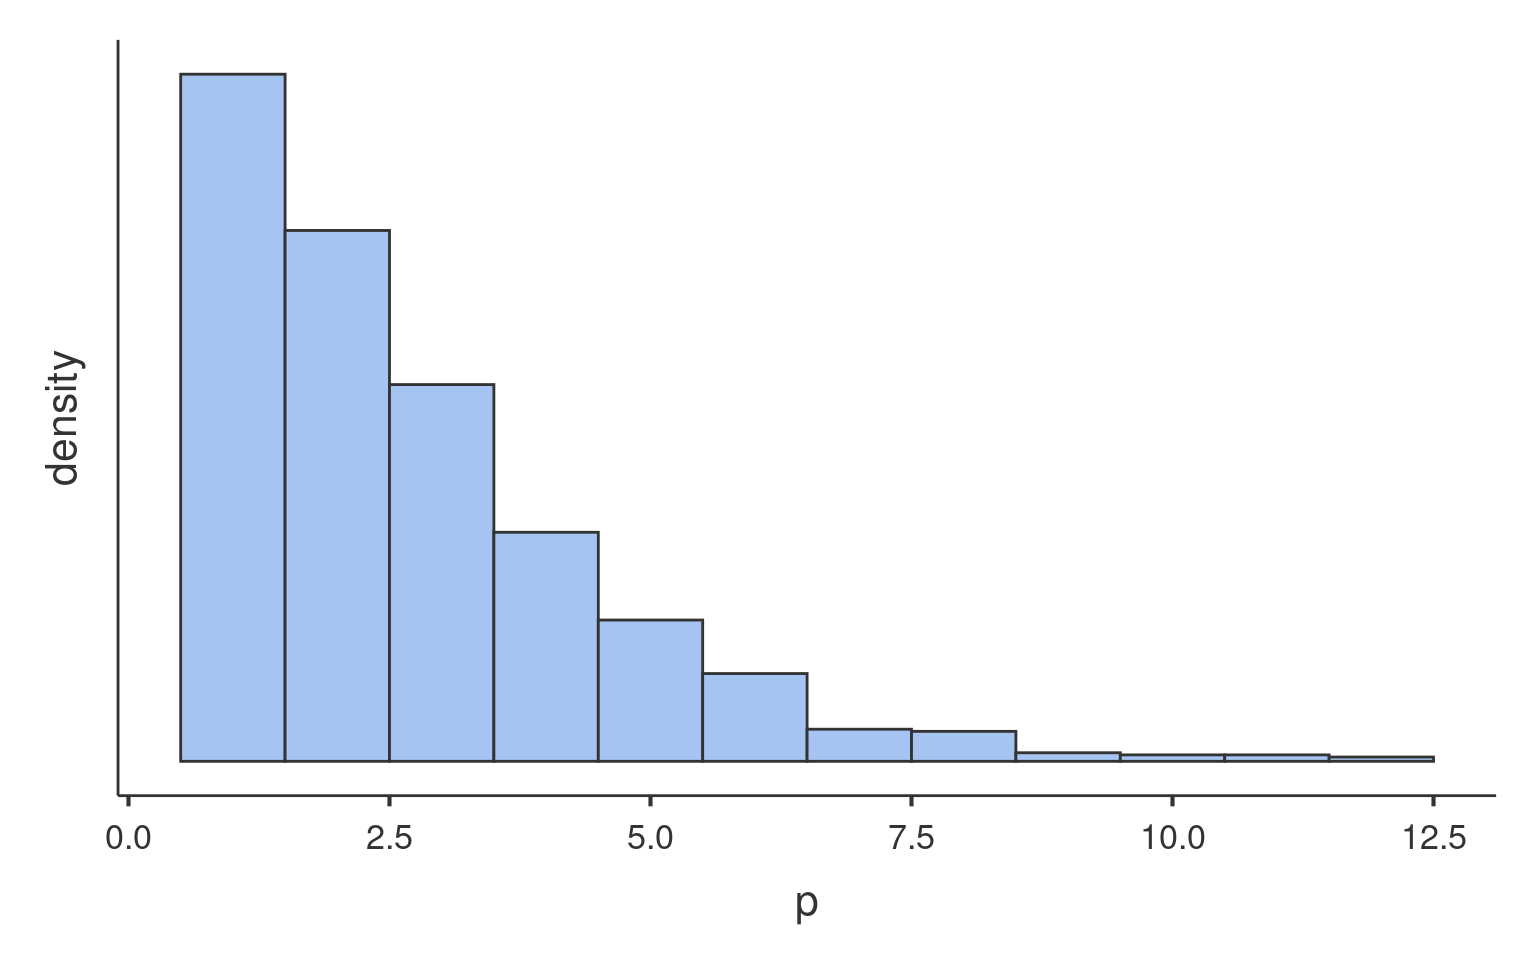
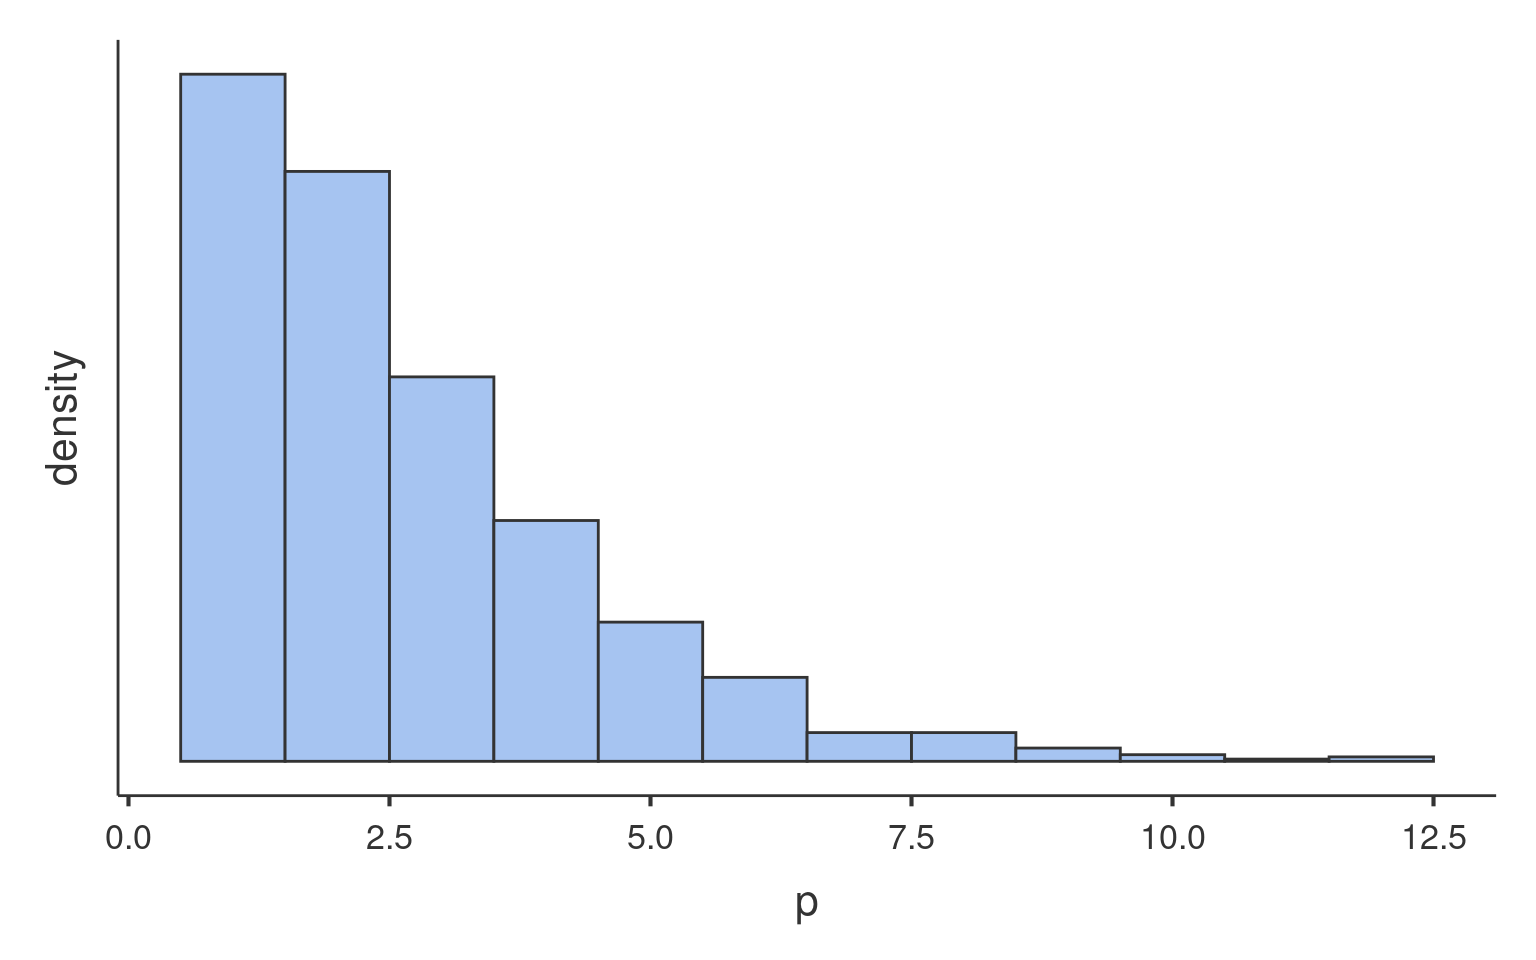
updates

diff --git a/docs/rpackage/reference/gamlj_gmixed.html b/docs/rpackage/reference/gamlj_gmixed.html
@@ -440,7 +440,7 @@ normality of residuals</p></dd>
 <span class="r-out co"><span class="r-pr">#&gt;</span>  ───────────────────────────────────────────────────────────────────── </span>
 <span class="r-out co"><span class="r-pr">#&gt;</span>    Type           R²           df           LRT X²        p            </span>
 <span class="r-out co"><span class="r-pr">#&gt;</span>  ───────────────────────────────────────────────────────────────────── </span>
-<span class="r-out co"><span class="r-pr">#&gt;</span>    Conditional    0.0436968    2.0000000    39.7507885    &lt; .0000001   </span>
+<span class="r-out co"><span class="r-pr">#&gt;</span>    Conditional    0.0436942    2.0000000    39.7507886    &lt; .0000001   </span>
 <span class="r-out co"><span class="r-pr">#&gt;</span>    Marginal       0.0185754    1.0000000    26.8376082     0.0000002   </span>
 <span class="r-out co"><span class="r-pr">#&gt;</span>  ───────────────────────────────────────────────────────────────────── </span>
 <span class="r-out co"><span class="r-pr">#&gt;</span> </span>
@@ -450,11 +450,11 @@ normality of residuals</p></dd>
 <span class="r-out co"><span class="r-pr">#&gt;</span>    Info              Model Value      Comment                    </span>
 <span class="r-out co"><span class="r-pr">#&gt;</span>  ─────────────────────────────────────────────────────────────── </span>
 <span class="r-out co"><span class="r-pr">#&gt;</span>    LogLikelihood     -1210.6506201                               </span>
-<span class="r-out co"><span class="r-pr">#&gt;</span>    AIC                2427.3012403    Less is better             </span>
+<span class="r-out co"><span class="r-pr">#&gt;</span>    AIC                2427.3012402    Less is better             </span>
 <span class="r-out co"><span class="r-pr">#&gt;</span>    BIC                2443.7878661    Less is better             </span>
-<span class="r-out co"><span class="r-pr">#&gt;</span>    Deviance           2421.3012403    Less is better             </span>
+<span class="r-out co"><span class="r-pr">#&gt;</span>    Deviance           2421.3012402    Less is better             </span>
 <span class="r-out co"><span class="r-pr">#&gt;</span>    Residual DF        1797.0000000                               </span>
-<span class="r-out co"><span class="r-pr">#&gt;</span>    Chi-squared/DF        0.9822442    Overdispersion indicator   </span>
+<span class="r-out co"><span class="r-pr">#&gt;</span>    Chi-squared/DF        0.9822437    Overdispersion indicator   </span>
 <span class="r-out co"><span class="r-pr">#&gt;</span>  ─────────────────────────────────────────────────────────────── </span>
 <span class="r-out co"><span class="r-pr">#&gt;</span> </span>
 <span class="r-out co"><span class="r-pr">#&gt;</span> </span>
@@ -462,7 +462,7 @@ normality of residuals</p></dd>
 <span class="r-out co"><span class="r-pr">#&gt;</span>  ────────────────────────────────────────── </span>
 <span class="r-out co"><span class="r-pr">#&gt;</span>         X²          df          p           </span>
 <span class="r-out co"><span class="r-pr">#&gt;</span>  ────────────────────────────────────────── </span>
-<span class="r-out co"><span class="r-pr">#&gt;</span>    x    26.24380    1.000000    0.0000003   </span>
+<span class="r-out co"><span class="r-pr">#&gt;</span>    x    26.24375    1.000000    0.0000003   </span>
 <span class="r-out co"><span class="r-pr">#&gt;</span>  ────────────────────────────────────────── </span>
 <span class="r-out co"><span class="r-pr">#&gt;</span> </span>
 <span class="r-out co"><span class="r-pr">#&gt;</span> </span>
@@ -470,8 +470,8 @@ normality of residuals</p></dd>
 <span class="r-out co"><span class="r-pr">#&gt;</span>  ───────────────────────────────────────────────────────────────────────────────────────────────────────────────────────────── </span>
 <span class="r-out co"><span class="r-pr">#&gt;</span>    Names          Effect         Estimate       SE             Exp(B)       Lower        Upper        z            p           </span>
 <span class="r-out co"><span class="r-pr">#&gt;</span>  ───────────────────────────────────────────────────────────────────────────────────────────────────────────────────────────── </span>
-<span class="r-out co"><span class="r-pr">#&gt;</span>    (Intercept)    (Intercept)    -0.28754013    0.072358483    0.7501065    0.6509255    0.8643996    -3.973828    0.0000707   </span>
-<span class="r-out co"><span class="r-pr">#&gt;</span>    x              x               0.05075563    0.009907654    1.0520658    1.0318332    1.0726951     5.122871    0.0000003   </span>
+<span class="r-out co"><span class="r-pr">#&gt;</span>    (Intercept)    (Intercept)    -0.28753339    0.072356202    0.7501115    0.6509328    0.8644016    -3.973860    0.0000707   </span>
+<span class="r-out co"><span class="r-pr">#&gt;</span>    x              x               0.05075552    0.009907643    1.0520657    1.0318331    1.0726950     5.122865    0.0000003   </span>
 <span class="r-out co"><span class="r-pr">#&gt;</span>  ───────────────────────────────────────────────────────────────────────────────────────────────────────────────────────────── </span>
 <span class="r-out co"><span class="r-pr">#&gt;</span> </span>
 <span class="r-out co"><span class="r-pr">#&gt;</span> </span>
@@ -479,7 +479,7 @@ normality of residuals</p></dd>
 <span class="r-out co"><span class="r-pr">#&gt;</span>  ──────────────────────────────────────────────────────────────────── </span>
 <span class="r-out co"><span class="r-pr">#&gt;</span>    Groups      Name           Variance      SD           ICC          </span>
 <span class="r-out co"><span class="r-pr">#&gt;</span>  ──────────────────────────────────────────────────────────────────── </span>
-<span class="r-out co"><span class="r-pr">#&gt;</span>    cluster     (Intercept)    0.08642239    0.2939769    0.02559685   </span>
+<span class="r-out co"><span class="r-pr">#&gt;</span>    cluster     (Intercept)    0.08641348    0.2939617    0.02559427   </span>
 <span class="r-out co"><span class="r-pr">#&gt;</span>    Residual                   3.28986813    1.8137994                 </span>
 <span class="r-out co"><span class="r-pr">#&gt;</span>  ──────────────────────────────────────────────────────────────────── </span>
 <span class="r-out co"><span class="r-pr">#&gt;</span>    Note. Number of Obs: 1800 , Number of groups: cluster 30</span>

diff --git a/docs/glm.html b/docs/glm.html
@@ -505,8 +505,8 @@ the <span class="math inline">\(median+k P\)</span>, and the <span
 class="math inline">\(median-k\cdot P\)</span>, where <span
 class="math inline">\(P\)</span> is the offset of percentile one needs.
 Again, the <span class="math inline">\(P\)</span> is ruled by the white
-field below the option. Default is 25%. The default conditions the model
-to:</p>
+field below the option. The offset should be within 5 and 50, default is
+25%. The default conditions the model to:</p>
 <ul>
 <li><p><span class="math inline">\(50^{th}-25^{th}=25^{th}\)</span>
 percentile</p></li>
@@ -514,10 +514,14 @@ percentile</p></li>
 <li><p><span class="math inline">\(50^{th}+25^{th}=75^{th}\)</span>
 percentile</p></li>
 </ul></li>
+<li><p><span class="option">Min to Max</span>: The IV is conditioned to
+its <span class="math inline">\(min\)</span>, <span
+class="math inline">\(max\)</span> and a number of values in between,
+ruled by <code>Steps</code>. For <code>Steps=1</code> only <span
+class="math inline">\(min\)</span> and <span
+class="math inline">\(max\)</span> are used. For <code>Steps=2</code>,
+one value in the middle is also used, and so on.</p></li>
 </ul>
-<p>The offset should be within 5 and 50.</p>
-<p>Note that with either of these two options, one can estimate simple
-effects and plots for any value of the continuous IV.</p>
 <p><span class="option">Covariates labeling</span> decides which label
 should be associated with the estimates and plots of simple effects as
 follows:</p>
@@ -536,7 +540,7 @@ the estimates to be obtained with centered variables (because there are
 interactions, for instance), but the plot of the effects is preferred in
 the original scales of the moderators.</p></li>
 <li><p><span class="option">Unscaled Values + Labels</span> as the
-previous option, but add also the label “Mean” and “SD” to the orginal
+previous option, but add also the label “Mean” and “SD” to the original
 values.</p></li>
 </ul>
 <p>The <span class="option">Scaling on</span> option decides how the

diff --git a/docs/gzlm.html b/docs/gzlm.html
@@ -544,8 +544,8 @@ the <span class="math inline">\(median+k P\)</span>, and the <span
 class="math inline">\(median-k\cdot P\)</span>, where <span
 class="math inline">\(P\)</span> is the offset of percentile one needs.
 Again, the <span class="math inline">\(P\)</span> is ruled by the white
-field below the option. Default is 25%. The default conditions the model
-to:</p>
+field below the option. The offset should be within 5 and 50, default is
+25%. The default conditions the model to:</p>
 <ul>
 <li><p><span class="math inline">\(50^{th}-25^{th}=25^{th}\)</span>
 percentile</p></li>
@@ -553,10 +553,14 @@ percentile</p></li>
 <li><p><span class="math inline">\(50^{th}+25^{th}=75^{th}\)</span>
 percentile</p></li>
 </ul></li>
+<li><p><span class="option">Min to Max</span>: The IV is conditioned to
+its <span class="math inline">\(min\)</span>, <span
+class="math inline">\(max\)</span> and a number of values in between,
+ruled by <code>Steps</code>. For <code>Steps=1</code> only <span
+class="math inline">\(min\)</span> and <span
+class="math inline">\(max\)</span> are used. For <code>Steps=2</code>,
+one value in the middle is also used, and so on.</p></li>
 </ul>
-<p>The offset should be within 5 and 50.</p>
-<p>Note that with either of these two options, one can estimate simple
-effects and plots for any value of the continuous IV.</p>
 <p><span class="option">Covariates labeling</span> decides which label
 should be associated with the estimates and plots of simple effects as
 follows:</p>
@@ -575,7 +579,7 @@ the estimates to be obtained with centered variables (because there are
 interactions, for instance), but the plot of the effects is preferred in
 the original scales of the moderators.</p></li>
 <li><p><span class="option">Unscaled Values + Labels</span> as the
-previous option, but add also the label “Mean” and “SD” to the orginal
+previous option, but add also the label “Mean” and “SD” to the original
 values.</p></li>
 </ul>
 <p>The <span class="option">Scaling on</span> option decides how the

diff --git a/docs/gzlmmixed.html b/docs/gzlmmixed.html
@@ -549,8 +549,8 @@ the <span class="math inline">\(median+k P\)</span>, and the <span
 class="math inline">\(median-k\cdot P\)</span>, where <span
 class="math inline">\(P\)</span> is the offset of percentile one needs.
 Again, the <span class="math inline">\(P\)</span> is ruled by the white
-field below the option. Default is 25%. The default conditions the model
-to:</p>
+field below the option. The offset should be within 5 and 50, default is
+25%. The default conditions the model to:</p>
 <ul>
 <li><p><span class="math inline">\(50^{th}-25^{th}=25^{th}\)</span>
 percentile</p></li>
@@ -558,10 +558,14 @@ percentile</p></li>
 <li><p><span class="math inline">\(50^{th}+25^{th}=75^{th}\)</span>
 percentile</p></li>
 </ul></li>
+<li><p><span class="option">Min to Max</span>: The IV is conditioned to
+its <span class="math inline">\(min\)</span>, <span
+class="math inline">\(max\)</span> and a number of values in between,
+ruled by <code>Steps</code>. For <code>Steps=1</code> only <span
+class="math inline">\(min\)</span> and <span
+class="math inline">\(max\)</span> are used. For <code>Steps=2</code>,
+one value in the middle is also used, and so on.</p></li>
 </ul>
-<p>The offset should be within 5 and 50.</p>
-<p>Note that with either of these two options, one can estimate simple
-effects and plots for any value of the continuous IV.</p>
 <p><span class="option">Covariates labeling</span> decides which label
 should be associated with the estimates and plots of simple effects as
 follows:</p>
@@ -580,7 +584,7 @@ the estimates to be obtained with centered variables (because there are
 interactions, for instance), but the plot of the effects is preferred in
 the original scales of the moderators.</p></li>
 <li><p><span class="option">Unscaled Values + Labels</span> as the
-previous option, but add also the label “Mean” and “SD” to the orginal
+previous option, but add also the label “Mean” and “SD” to the original
 values.</p></li>
 </ul>
 <p>The <span class="option">Scaling on</span> option decides how the

diff --git a/docs/mixed.html b/docs/mixed.html
@@ -566,8 +566,8 @@ the <span class="math inline">\(median+k P\)</span>, and the <span
 class="math inline">\(median-k\cdot P\)</span>, where <span
 class="math inline">\(P\)</span> is the offset of percentile one needs.
 Again, the <span class="math inline">\(P\)</span> is ruled by the white
-field below the option. Default is 25%. The default conditions the model
-to:</p>
+field below the option. The offset should be within 5 and 50, default is
+25%. The default conditions the model to:</p>
 <ul>
 <li><p><span class="math inline">\(50^{th}-25^{th}=25^{th}\)</span>
 percentile</p></li>
@@ -575,10 +575,14 @@ percentile</p></li>
 <li><p><span class="math inline">\(50^{th}+25^{th}=75^{th}\)</span>
 percentile</p></li>
 </ul></li>
+<li><p><span class="option">Min to Max</span>: The IV is conditioned to
+its <span class="math inline">\(min\)</span>, <span
+class="math inline">\(max\)</span> and a number of values in between,
+ruled by <code>Steps</code>. For <code>Steps=1</code> only <span
+class="math inline">\(min\)</span> and <span
+class="math inline">\(max\)</span> are used. For <code>Steps=2</code>,
+one value in the middle is also used, and so on.</p></li>
 </ul>
-<p>The offset should be within 5 and 50.</p>
-<p>Note that with either of these two options, one can estimate simple
-effects and plots for any value of the continuous IV.</p>
 <p><span class="option">Covariates labeling</span> decides which label
 should be associated with the estimates and plots of simple effects as
 follows:</p>
@@ -597,7 +601,7 @@ the estimates to be obtained with centered variables (because there are
 interactions, for instance), but the plot of the effects is preferred in
 the original scales of the moderators.</p></li>
 <li><p><span class="option">Unscaled Values + Labels</span> as the
-previous option, but add also the label “Mean” and “SD” to the orginal
+previous option, but add also the label “Mean” and “SD” to the original
 values.</p></li>
 </ul>
 <p>The <span class="option">Scaling on</span> option decides how the

diff --git a/docs/glmmixed_example2.html b/docs/glmmixed_example2.html
@@ -295,8 +295,8 @@ Generalized Linear Model with Poisson distribition may work. However, we
 can check wheather our distribution is in line with the features of the
 Poisson dist by checking its mean and variance. The Poisson distribution
 has variance equal to the mean, in fact the simulated distribution in
-the histogram has <span class="math inline">\(\bar{x}=1.706\)</span> and
-<span class="math inline">\(s^2=1.691\)</span>. The <code>art</code>
+the histogram has <span class="math inline">\(\bar{x}=1.623\)</span> and
+<span class="math inline">\(s^2=1.584\)</span>. The <code>art</code>
 variable distribution has <span
 class="math inline">\(\bar{x}=1.693\)</span> and <span
 class="math inline">\(s^2=3.71\)</span>, with a ratio variance/mean of
